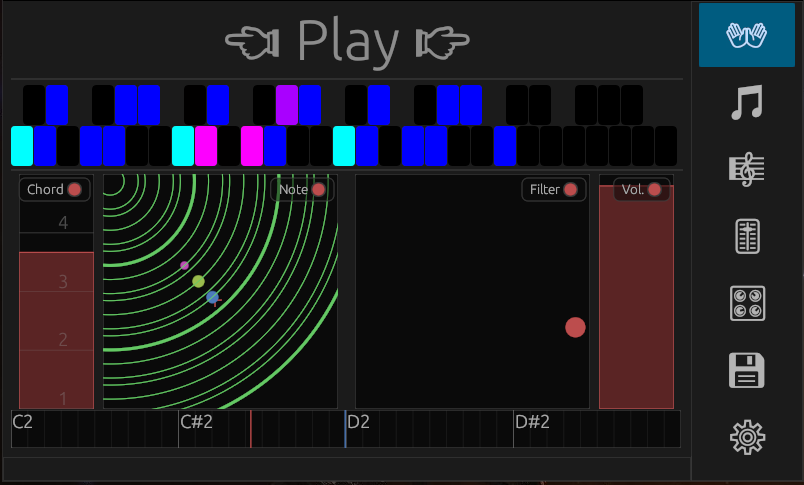
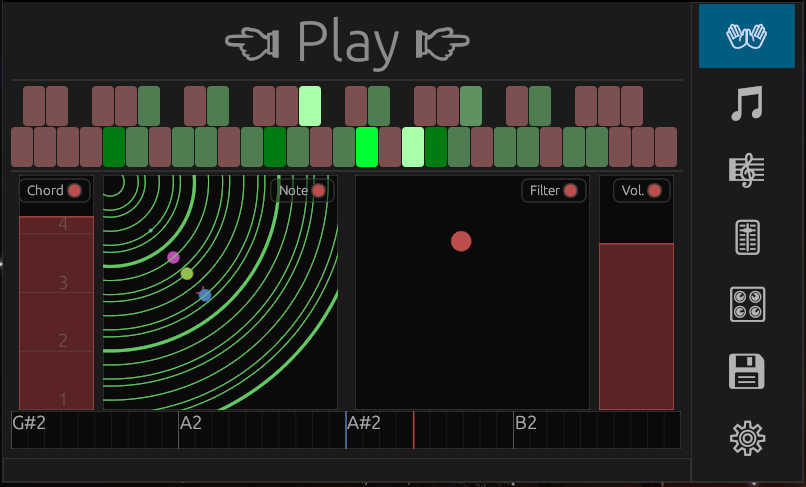
update capture, trigger guitar as soon as in the correct chord window

diff --git a/src/leap_thread.rs b/src/leap_thread.rs
@@ -112,7 +112,7 @@ fn on_tracking_event(
         let lead_volumes =
             [0.0, 1.0, 2.0, 3.0].map(|v| (note_number_height.clamp(1.0, 4.0) - v).clamp(0.0, 1.0));
 
-        guitar_gates = lead_volumes.map(|v| v >= 0.2);
+        guitar_gates = lead_volumes.map(|v| v > 0.0);
 
         // Autotune amount
         let autotune =
